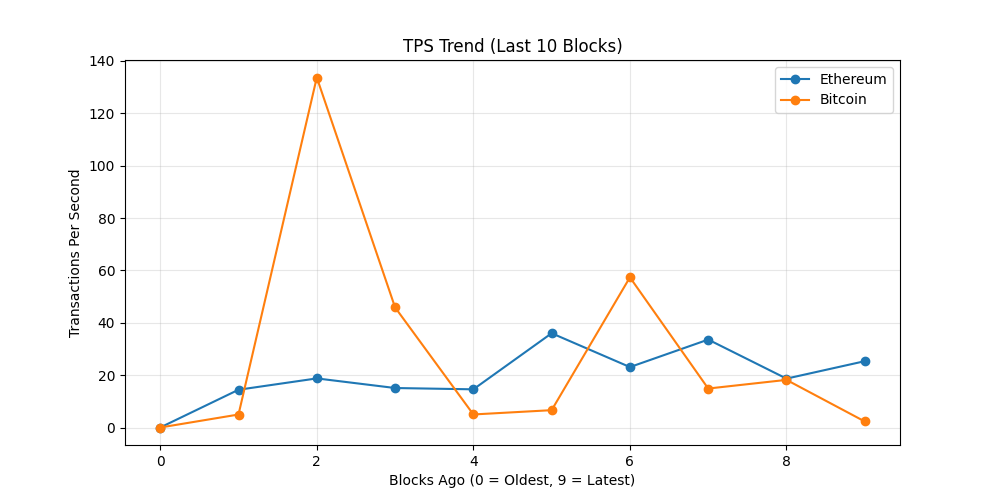
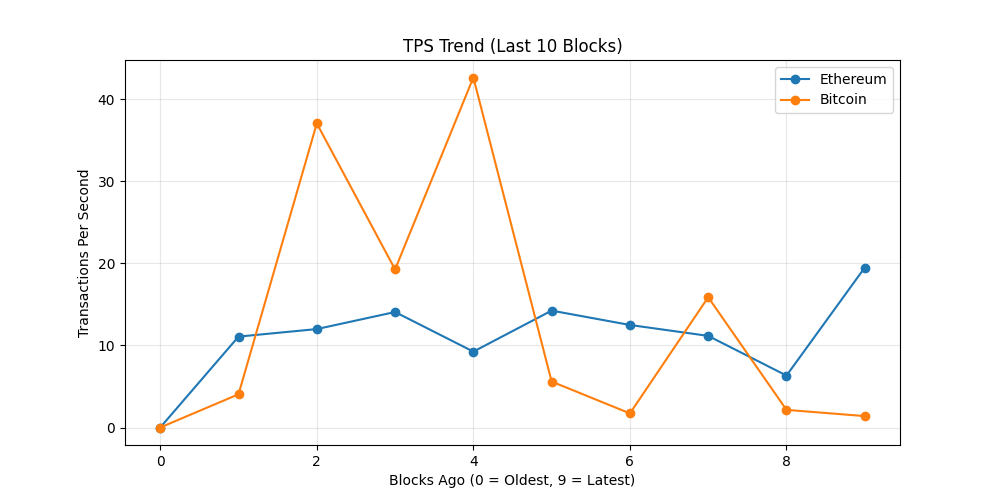
chore: update on-chain dashboard

diff --git a/README.md b/README.md
@@ -19,7 +19,7 @@ The README itself acts as the dashboard and is regenerated automatically on a 6 
 demonstrating a production-style, infrastructure-focused observability workflow rather
 than a traditional UI-driven approach.
 
-_Last updated: 2026-09-26 21:08 UTC_
+_Last updated: 2026-09-27 05:16 UTC_
 
 ## API Usage (GetBlock.io)
 - Calls used: **24**
@@ -27,8 +27,8 @@ _Last updated: 2026-09-26 21:08 UTC_
 ## Network Metrics
 | Chain | Block Height | TX Count | TPS (10 blk avg) | Block Util | Avg Fee |
 |------|-------------|----------|------------------|------------|---------|
-| Ethereum | 26064213 | 304 | 25.33 | 52.81% | 0.1 Gwei |
-| Bitcoin | 968742 | 4052 | 2.3 | 99.79% | N/A |
+| Ethereum | 26066642 | 234 | 19.5 | 88.53% | 0.1 Gwei |
+| Bitcoin | 968782 | 3146 | 1.39 | 99.8% | N/A |
 
 ## Visuals
 ### Transactions Trend
@@ -43,11 +43,11 @@ _Last updated: 2026-09-26 21:08 UTC_
 ## Whale Alerts (latest block)
 - Transaction hashes are truncated for readability.
 - Full hashes are available in `dashboards/metrics.json`
-- Bitcoin | 115.94 BTC | `567e19c6863d…`
-- Bitcoin | 114.96 BTC | `b91a05a3af49…`
-- Bitcoin | 114.78 BTC | `bc46ece38547…`
-- Bitcoin | 114.67 BTC | `34ea991671f5…`
-- Bitcoin | 114.54 BTC | `206556d538ba…`
+- Bitcoin | 126.77 BTC | `3b28cd726ca4…`
+- Bitcoin | 140.08 BTC | `324792055779…`
+- Bitcoin | 140.02 BTC | `be52187d41f7…`
+- Bitcoin | 139.96 BTC | `d53464b961fb…`
+- Bitcoin | 139.9 BTC | `6e1ecd5926f3…`
 
 ## Run locally
 
